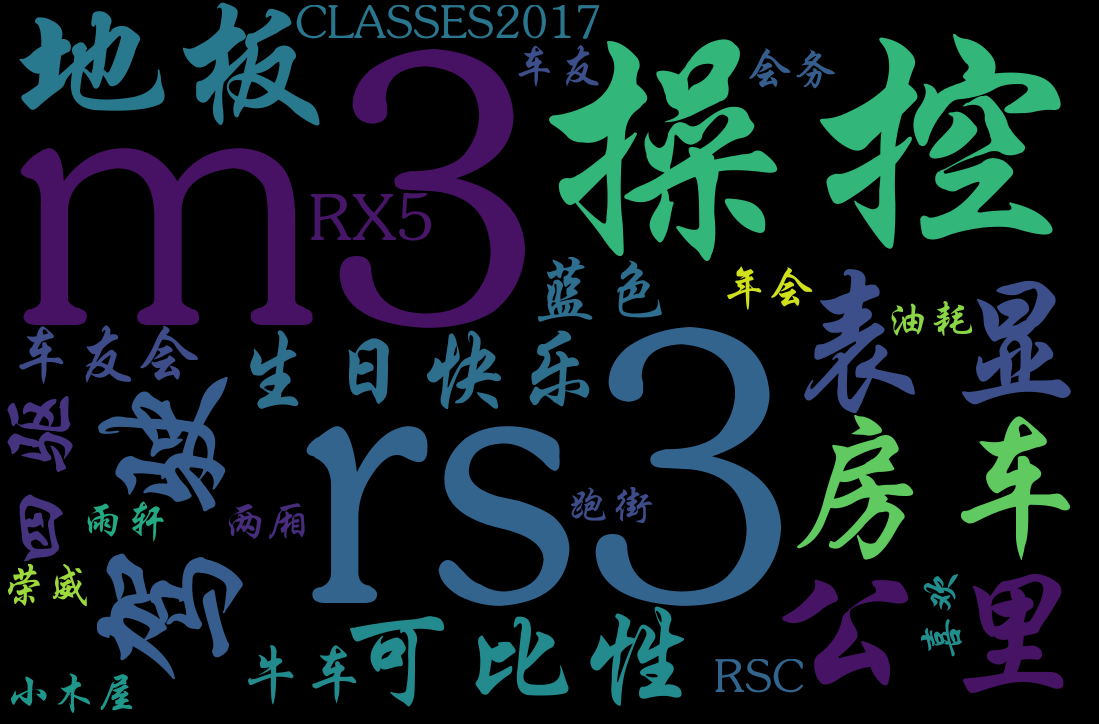
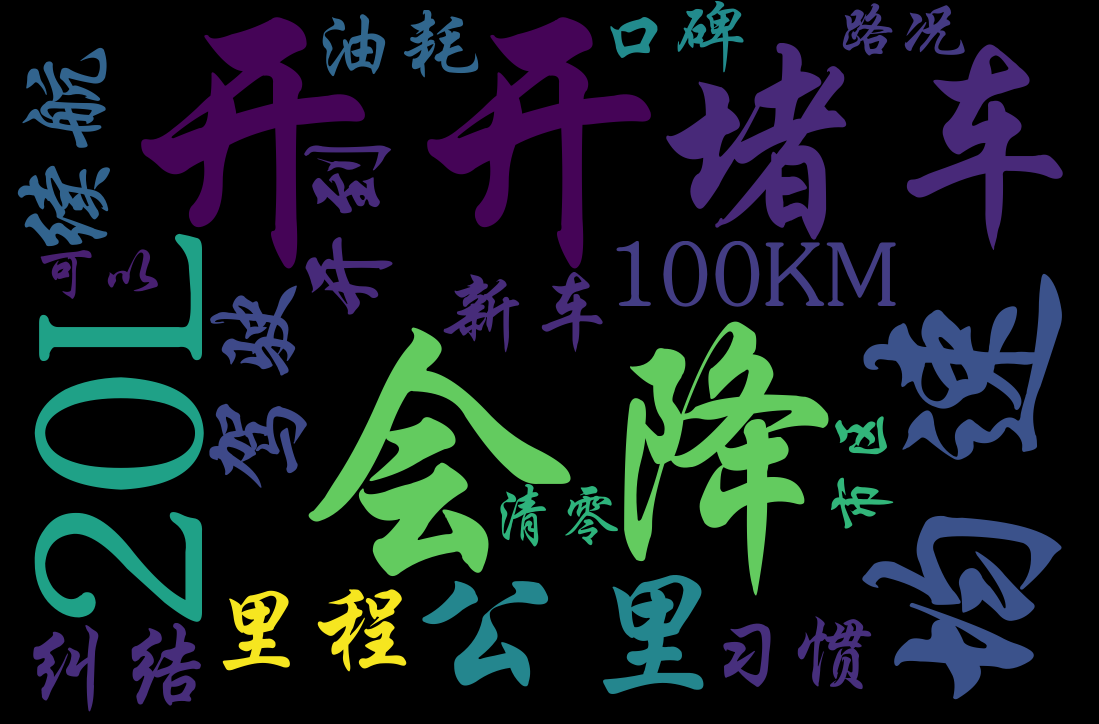
添加目录说明和测试数据

diff --git a/templates/ciyuncountwords.html b/templates/ciyuncountwords.html
@@ -29,12 +29,12 @@
 </script>
 </head>
 <body>
-    <div id="3ba795f6ab5a426daf10f40c34127ad5" style="width:900px;height:700px;"></div>
+    <div id="9f83d725a8ca41a28bdd9c9aaaea370e" style="width:900px;height:700px;"></div>
     <script type="text/javascript">
 
-var myChart_3ba795f6ab5a426daf10f40c34127ad5 = echarts.init(document.getElementById('3ba795f6ab5a426daf10f40c34127ad5'), 'light', {renderer: 'canvas'});
+var myChart_9f83d725a8ca41a28bdd9c9aaaea370e = echarts.init(document.getElementById('9f83d725a8ca41a28bdd9c9aaaea370e'), 'light', {renderer: 'canvas'});
 
-var option_3ba795f6ab5a426daf10f40c34127ad5 = {
+var option_9f83d725a8ca41a28bdd9c9aaaea370e = {
     "title": [
         {
             "textStyle": {
@@ -99,124 +99,124 @@ var option_3ba795f6ab5a426daf10f40c34127ad5 = {
             }, 
             "data": [
                 {
-                    "name": "M3", 
-                    "value": 29
-                }, 
-                {
-                    "name": "RS3", 
+                    "name": "\u6cb9\u8017", 
                     "value": 23
                 }, 
                 {
-                    "name": "\u6cb9\u8017", 
-                    "value": 30
+                    "name": "01", 
+                    "value": 33
                 }, 
                 {
-                    "name": "RSC", 
-                    "value": 21
-                }, 
-                {
-                    "name": "rs3", 
-                    "value": 16
-                }, 
-                {
-                    "name": "10", 
-                    "value": 20
-                }, 
-                {
-                    "name": "RX5", 
-                    "value": 14
-                }, 
-                {
-                    "name": "m3", 
-                    "value": 10
-                }, 
-                {
-                    "name": "\u751f\u65e5\u5feb\u4e50", 
-                    "value": 9
-                }, 
-                {
-                    "name": "\u96e8\u8f69", 
-                    "value": 6
-                }, 
-                {
-                    "name": "\u8f66\u53cb\u4f1a", 
-                    "value": 6
-                }, 
-                {
-                    "name": "\u5c0f\u6728\u5c4b", 
-                    "value": 6
-                }, 
-                {
-                    "name": "\u64cd\u63a7", 
-                    "value": 9
-                }, 
-                {
-                    "name": "\u516c\u91cc", 
-                    "value": 13
-                }, 
-                {
-                    "name": "\u9a7e\u9a76", 
-                    "value": 9
-                }, 
-                {
-                    "name": "\u725b\u8f66", 
-                    "value": 7
-                }, 
-                {
-                    "name": "\u8f66\u53cb", 
-                    "value": 12
-                }, 
-                {
-                    "name": "\u56db\u9a71", 
-                    "value": 5
-                }, 
-                {
-                    "name": "\u53ef\u6bd4\u6027", 
-                    "value": 6
-                }, 
-                {
-                    "name": "\u84dd\u8272", 
-                    "value": 7
-                }, 
-                {
-                    "name": "\u5730\u677f", 
-                    "value": 6
-                }, 
-                {
-                    "name": "\u8363\u5a01", 
-                    "value": 6
-                }, 
-                {
-                    "name": "CLASSES2017", 
-                    "value": 4
-                }, 
-                {
-                    "name": "\u4e24\u53a2", 
-                    "value": 5
-                }, 
-                {
-                    "name": "\u623f\u8f66", 
-                    "value": 4
-                }, 
-                {
-                    "name": "\u559c\u6b22", 
+                    "name": "\u7ea0\u7ed3", 
                     "value": 8
                 }, 
                 {
-                    "name": "\u4f1a\u52a1", 
-                    "value": 4
+                    "name": "20", 
+                    "value": 34
                 }, 
                 {
-                    "name": "\u5e74\u4f1a", 
+                    "name": "1110", 
+                    "value": 5
+                }, 
+                {
+                    "name": "\u5835\u8f66", 
+                    "value": 6
+                }, 
+                {
+                    "name": "\u9a7e\u9a76", 
+                    "value": 7
+                }, 
+                {
+                    "name": "\u516c\u91cc", 
                     "value": 9
                 }, 
                 {
-                    "name": "\u8868\u663e", 
+                    "name": "\u4f1a\u964d", 
                     "value": 4
                 }, 
                 {
-                    "name": "\u8dd1\u8857", 
+                    "name": "\u5747\u901f", 
+                    "value": 4
+                }, 
+                {
+                    "name": "20L", 
+                    "value": 4
+                }, 
+                {
+                    "name": "100KM", 
+                    "value": 4
+                }, 
+                {
+                    "name": "\u5e02\u533a", 
+                    "value": 6
+                }, 
+                {
+                    "name": "\u7eed\u822a", 
+                    "value": 4
+                }, 
+                {
+                    "name": "\u8def\u51b5", 
+                    "value": 4
+                }, 
+                {
+                    "name": "38", 
+                    "value": 4
+                }, 
+                {
+                    "name": "31", 
                     "value": 3
+                }, 
+                {
+                    "name": "37", 
+                    "value": 3
+                }, 
+                {
+                    "name": "36", 
+                    "value": 4
+                }, 
+                {
+                    "name": "2019", 
+                    "value": 16
+                }, 
+                {
+                    "name": "18", 
+                    "value": 5
+                }, 
+                {
+                    "name": "\u91cc\u7a0b", 
+                    "value": 4
+                }, 
+                {
+                    "name": "\u5f00\u5f00", 
+                    "value": 3
+                }, 
+                {
+                    "name": "\u53e3\u7891", 
+                    "value": 3
+                }, 
+                {
+                    "name": "\u5f00\u5230", 
+                    "value": 4
+                }, 
+                {
+                    "name": "\u4e60\u60ef", 
+                    "value": 4
+                }, 
+                {
+                    "name": "\u53ef\u4ee5", 
+                    "value": 7
+                }, 
+                {
+                    "name": "\u6e05\u96f6", 
+                    "value": 2
+                }, 
+                {
+                    "name": "\u65b0\u8f66", 
+                    "value": 3
+                }, 
+                {
+                    "name": "6.9", 
+                    "value": 2
                 }
             ]
         }
@@ -234,7 +234,7 @@ var option_3ba795f6ab5a426daf10f40c34127ad5 = {
         "backgroundColor": "rgba(50,50,50,0.7)", 
         "triggerOn": "mousemove|click"
     }, 
-    "series_id": 5924491, 
+    "series_id": 715298, 
     "animation": true, 
     "toolbox": {
         "orient": "vertical", 
@@ -265,35 +265,35 @@ var option_3ba795f6ab5a426daf10f40c34127ad5 = {
             "top": "top", 
             "selectedMode": "multiple", 
             "data": [
-                "\u64cd\u63a7", 
-                "\u8868\u663e", 
+                "\u4f1a\u964d", 
+                "\u5f00\u5f00", 
+                "\u5747\u901f", 
                 "\u516c\u91cc", 
                 "\u9a7e\u9a76", 
-                "\u4f1a\u52a1", 
-                "M3", 
-                "\u623f\u8f66", 
-                "\u53ef\u6bd4\u6027", 
-                "\u751f\u65e5\u5feb\u4e50", 
-                "RS3", 
-                "\u56db\u9a71", 
-                "\u84dd\u8272", 
-                "\u8f66\u53cb\u4f1a", 
-                "\u725b\u8f66", 
-                "m3", 
-                "rs3", 
-                "RX5", 
-                "CLASSES2017", 
-                "\u5e74\u4f1a", 
-                "\u5c0f\u6728\u5c4b", 
-                "\u4e24\u53a2", 
-                "\u96e8\u8f69", 
-                "10", 
-                "\u8dd1\u8857", 
-                "\u8363\u5a01", 
-                "\u5730\u677f", 
-                "RSC", 
-                "\u559c\u6b22", 
-                "\u8f66\u53cb", 
+                "\u91cc\u7a0b", 
+                "6.9", 
+                "01", 
+                "20", 
+                "\u7ea0\u7ed3", 
+                "\u7eed\u822a", 
+                "1110", 
+                "\u5f00\u5230", 
+                "2019", 
+                "\u8def\u51b5", 
+                "\u5835\u8f66", 
+                "20L", 
+                "\u5e02\u533a", 
+                "100KM", 
+                "\u4e60\u60ef", 
+                "38", 
+                "18", 
+                "31", 
+                "37", 
+                "36", 
+                "\u65b0\u8f66", 
+                "\u6e05\u96f6", 
+                "\u53e3\u7891", 
+                "\u53ef\u4ee5", 
                 "\u6cb9\u8017"
             ], 
             "orient": "horizontal", 
@@ -301,7 +301,7 @@ var option_3ba795f6ab5a426daf10f40c34127ad5 = {
         }
     ]
 };
-myChart_3ba795f6ab5a426daf10f40c34127ad5.setOption(option_3ba795f6ab5a426daf10f40c34127ad5);
+myChart_9f83d725a8ca41a28bdd9c9aaaea370e.setOption(option_9f83d725a8ca41a28bdd9c9aaaea370e);
 
 </script>
 </body>

diff --git a/README.md b/README.md
@@ -16,12 +16,20 @@
 pip install requirements.txt
 ```
 
-2 进入目录，运行脚本
+
+2 目录说明
+analysis: 数据分析脚本目录，从mongodb查询数据进行统计分析，结果数据写到Html或图片jpg里，供前端调取
+example:  字体格式文件
+static:   静态文件：放置项目用到的图片，js文件等
+templates: 集中放置展示页面html,直接用于前端展示
+db: 项目用json测试数据
+
+3 进入目录，运行服务启动脚本
 
 ```shell
 python flask_python_demo.py
 ```
 
-3 预览，访问浏览器 http://127.0.0.1:10200 即可。
+4 预览，访问浏览器 http://127.0.0.1:10200 即可。
 
 ![screenshots](screenshots.png)
